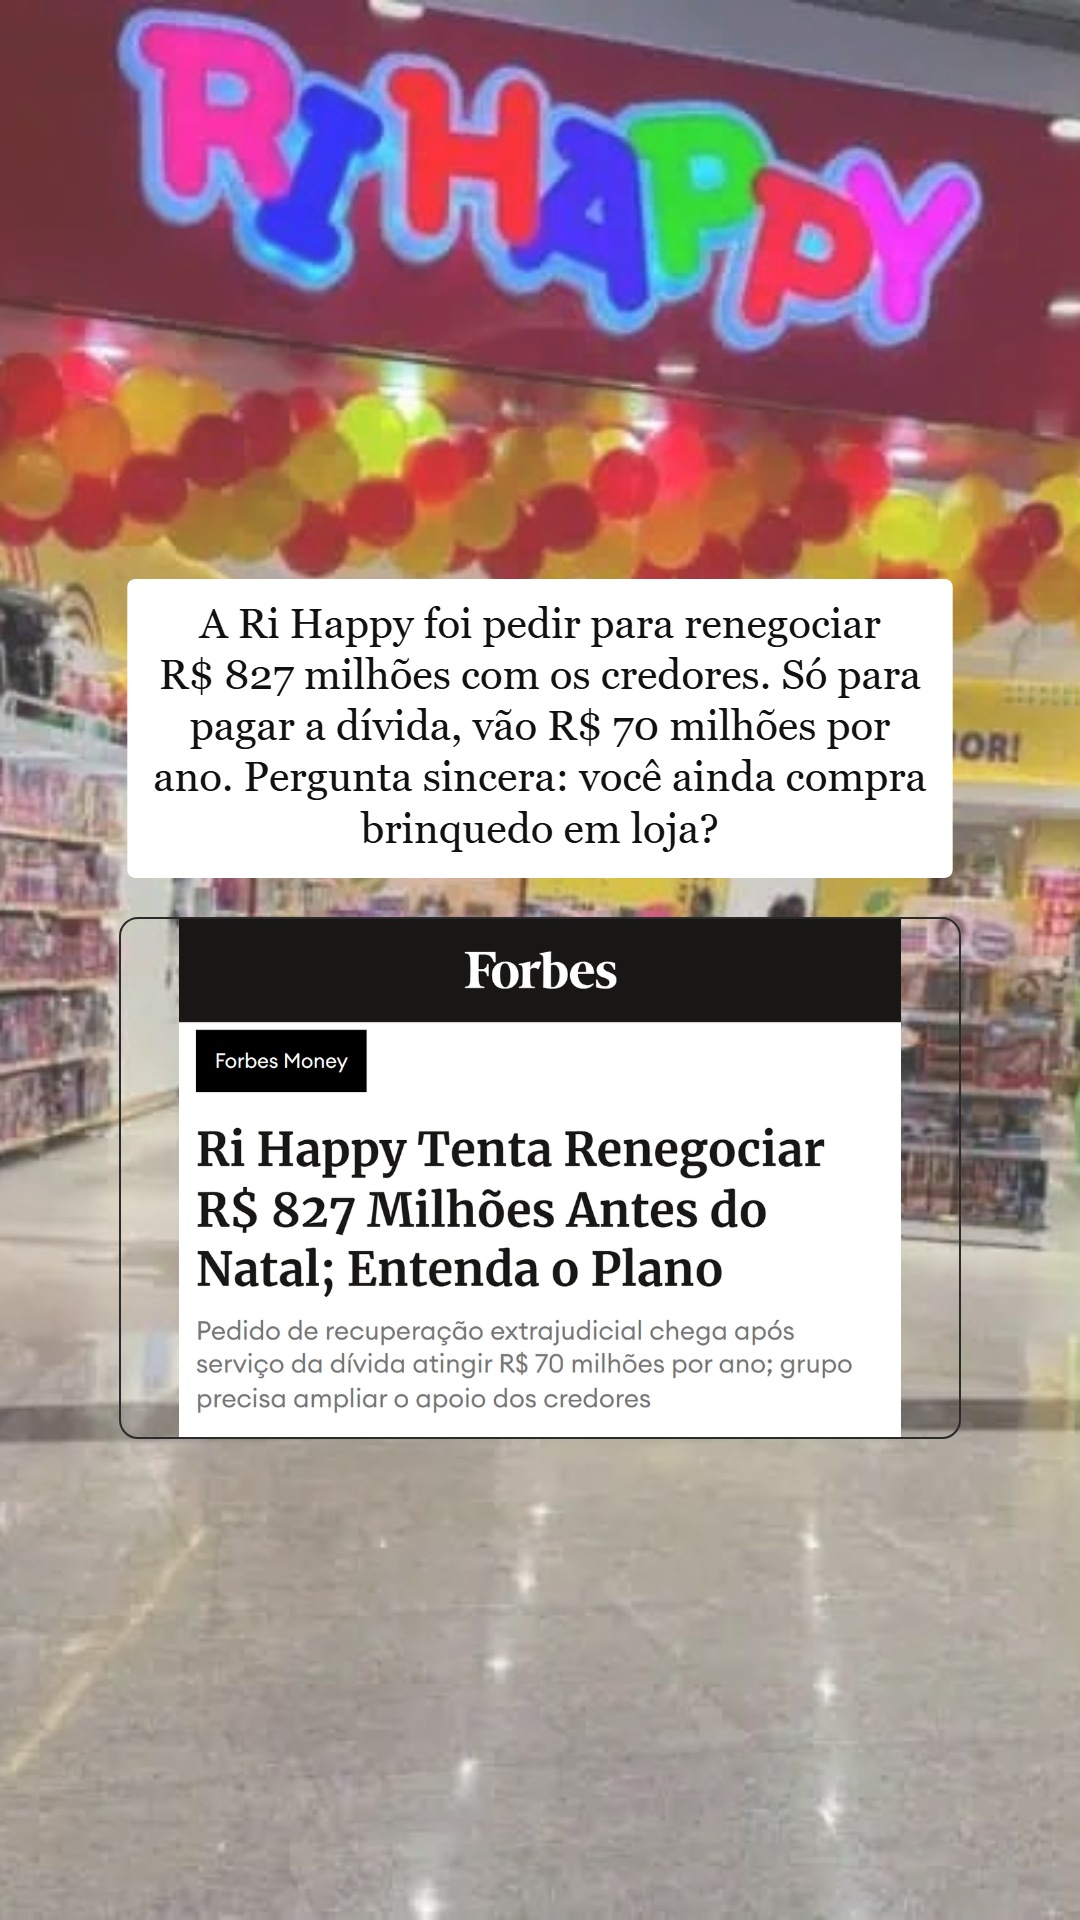
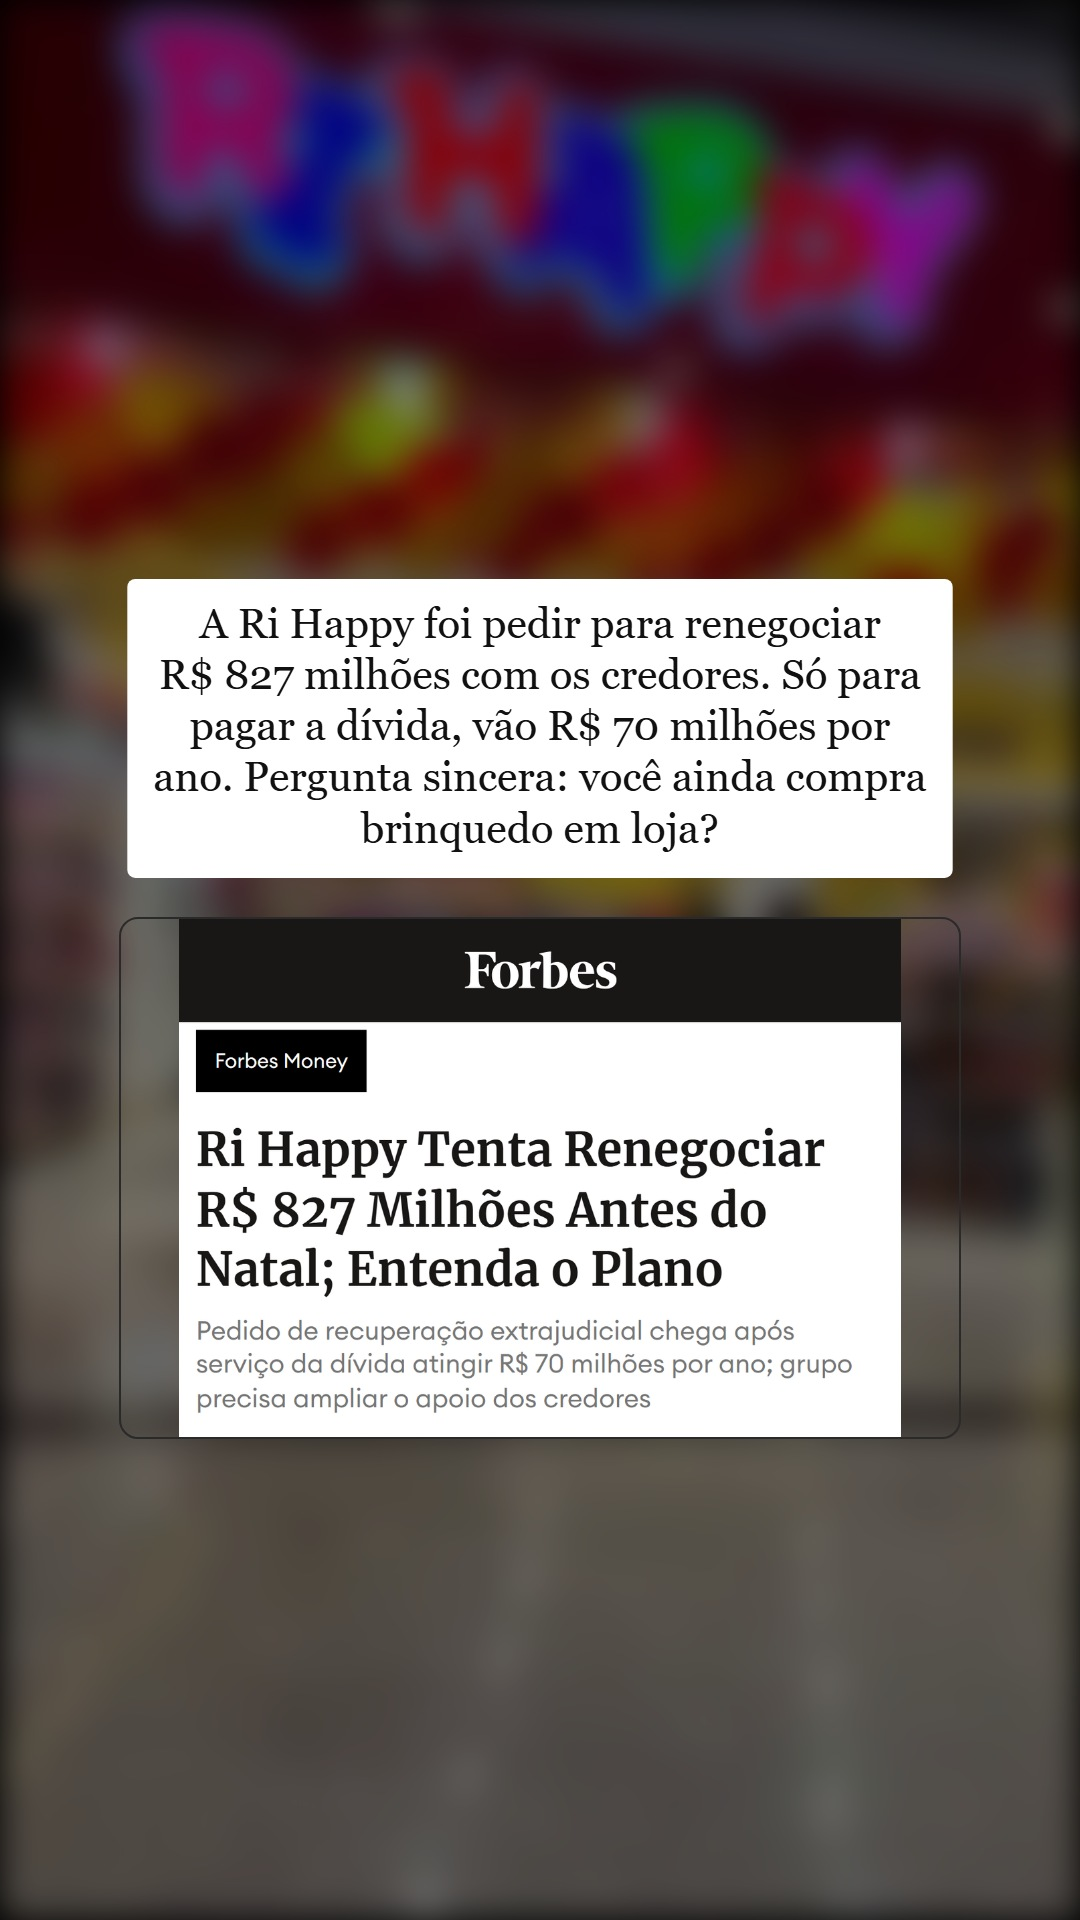
Atualiza o site

diff --git a/render.js b/render.js
@@ -933,7 +933,13 @@
     // foto de fundo (story/capa com foto real dele, 10/10): cobre a página; `escurecer` 0-1 ajuda a ler o texto branco
     if (slide.fundo && slide.fundo.src) {
       const img = imagemPronta(slide.fundo.src);
-      if (img) desenharImagemAjustada(ctx, img, 0, 0, W, AH, 'cobrir', slide.fundo.foco);
+      // 21/10, ele no story da Ri Happy: "a Ri Happy de fundo não dá pra ler nada": `desfoque` (px) borra a foto atrás do texto
+      if (img) {
+        ctx.save();
+        if (+slide.fundo.desfoque > 0) ctx.filter = `blur(${Math.min(40, +slide.fundo.desfoque)}px)`;
+        desenharImagemAjustada(ctx, img, 0, 0, W, AH, 'cobrir', slide.fundo.foco);
+        ctx.restore();
+      }
       if (slide.fundo.escurecer) { ctx.fillStyle = `rgba(0,0,0,${Math.min(0.8, +slide.fundo.escurecer)})`; ctx.fillRect(0, 0, W, AH); }
       // 20/10, ele: "e se a gente der uma clareada no plano de fundo?": véu branco por cima da foto do story
       if (slide.fundo.clarear) { ctx.fillStyle = `rgba(255,255,255,${Math.min(0.8, +slide.fundo.clarear)})`; ctx.fillRect(0, 0, W, AH); }
